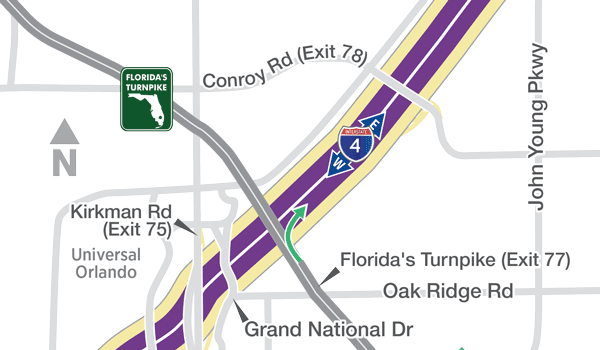
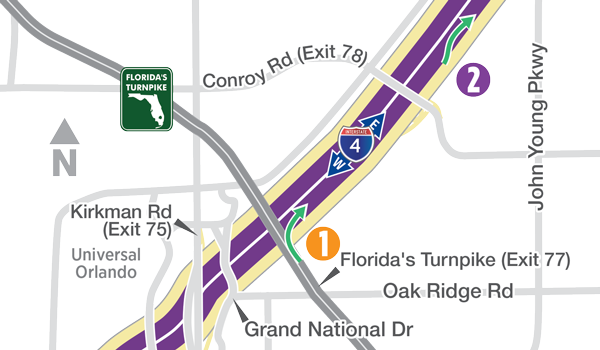
updated lat longs and turnpike map

Changed region(s): [[0.72, 0.0286, 0.84, 0.2857], [0.51, 0.6286, 0.57, 0.7429], [0.57, 0.3714, 0.63, 0.4286]]

diff --git a/src/data.js b/src/data.js
@@ -862,7 +862,8 @@ export const eastWestBounds = [
     id: 't',
     title: "Florida's Turnpike (Mile 77)",
     coords: {
-      east: { lat: 28.47882, lng: -81.44896 },
+      east: { lat: 28.47878, lng: -81.4489 },
+
       west: { lat: 28.47919, lng: -81.44922 },
     },
     instructions: {
@@ -878,6 +879,7 @@ export const eastWestBounds = [
         ],
         entry: [
           `From northbound Florida's Turnpike, use Florida’s Turnpike Direct Connect to eastbound I-4 Express.`,
+          `From southbound Florida’s Turnpike, the nearest eastbound I-4 Express ramp is east of Conroy Road from the eastbound I-4 general use lanes.`,
         ],
         exit: ['No Available Exits :( (this is impossible)'],
       },
